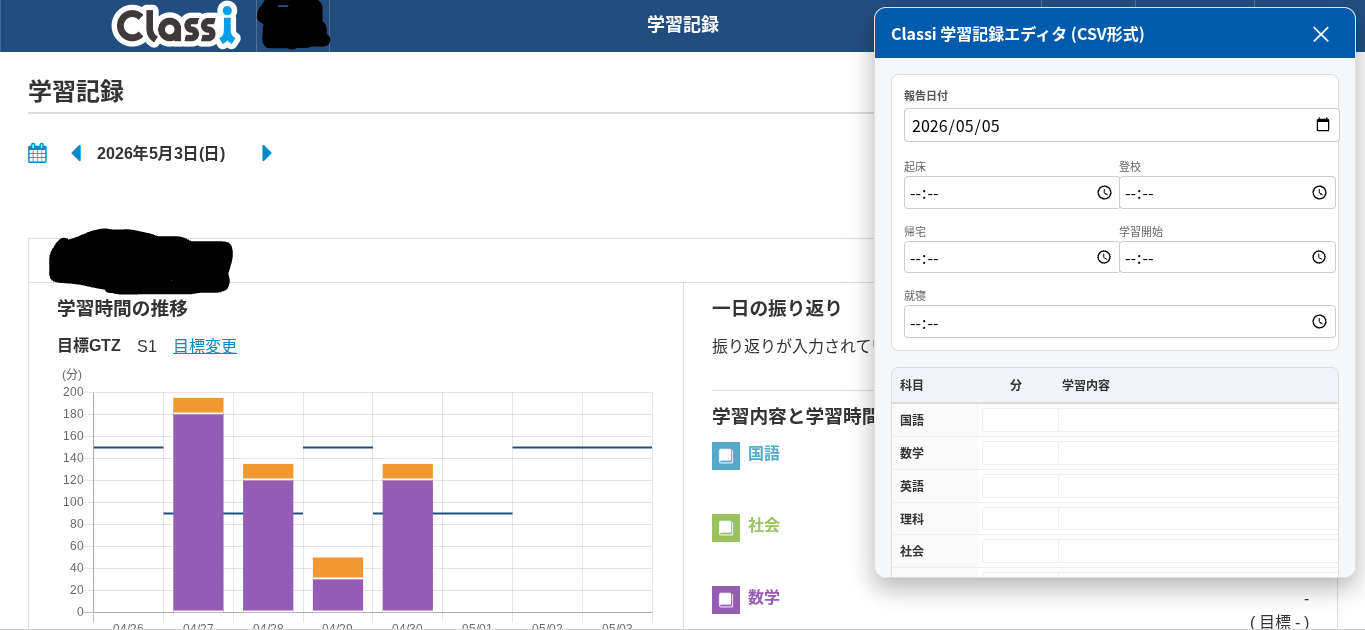
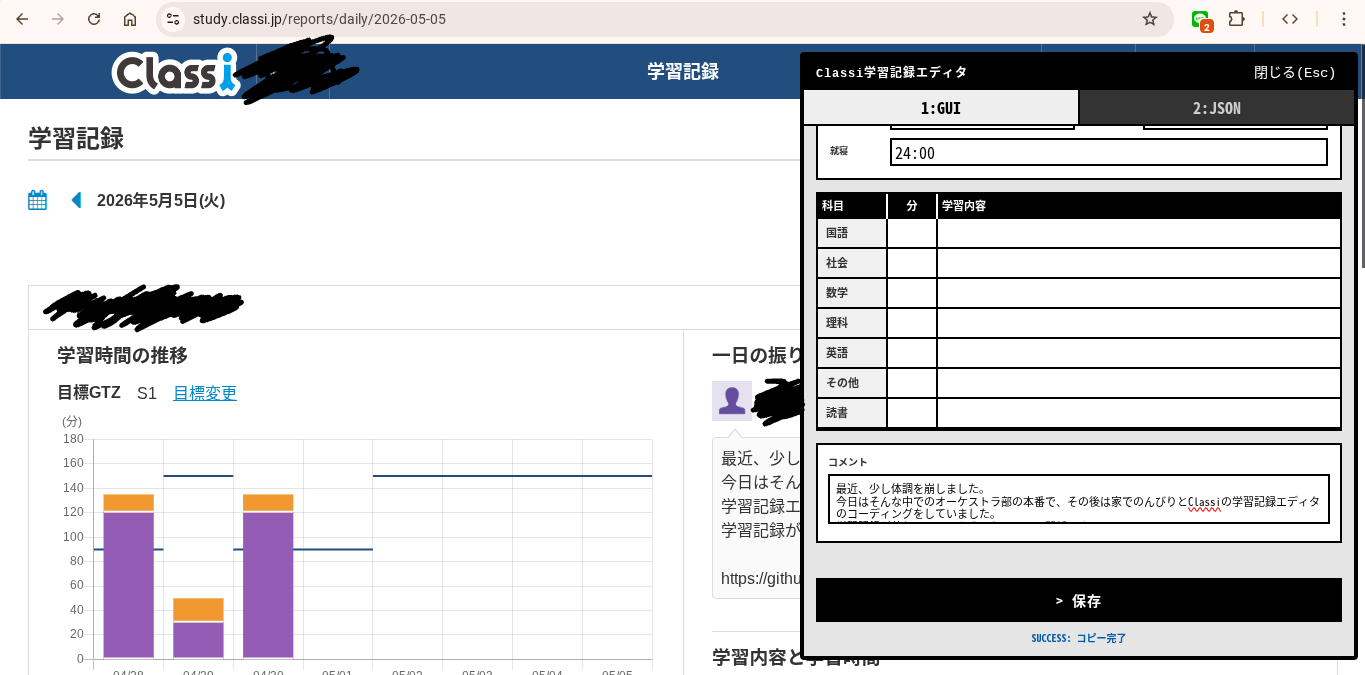
READMEの変更

diff --git a/README.md b/README.md
@@ -1,9 +1,19 @@
 # classi-study-record-editor
-Classiの学習記録を自動入力するエディタです。
+Classiの学習記録を直感的に入力するエディタです。
 # 概要
-Classiの学習記録を使っていると、前日と同じような内容を打ち込んでいるのにいちいち最初から打ち込まないといけないということが発生します。これが少し鬱陶しかったので、表形式で編集できる自作エディタを作りました。Classiと学習記録を強要された自称進学校の効率厨の皆さんにぜひとも使っていただきたいと思います。
+Classiの学習記録を使っていると、前日と同じような内容を打ち込んでいるのにいちいち最初から打ち込まないといけないということが発生します。これが少し鬱陶しかったので、表形式で編集できる自作エディタを作りました。
+
+自称進学校の自称進学校による自称進学校のためのツールです。Classiと学習記録を強要された自称進学校の効率厨の皆さんにぜひとも使っていただきたいと思います。
 # 使い方(JS版)
 ここに掲載されているJSのコードを以下の画像のようにブックマークに追加します![ブックマーク](dev/images/bookmark.png)
-そして、先程のブックマークをclassiの学習記録のページから開くことで、入力した内容が反映されます。個人情報なので一部黒塗りしています。![学習記録からの実行](dev/images/run-in-classi.png)
-# リンク
+そして、先程のブックマークをclassiの学習記録のページから開くことで、入力した内容が反映されます。![学習記録からの実行](dev/images/run-in-classi.png)
 [Classi](https://classi.jp)
+
+# 注意書き
+このツールによるいかなる損害も負いません。動作が不安定のため、データが消滅するおそれがあります。
+
+[Classiの利用規約](https://id.classi.jp/notice)には一応目を通してあります。しかしながら、不正アクセスとみなされる可能性がないことを保証しかねます。
+
+[直感的:主観です。](#classi-study-record-editor)
+
+[画像:個人情報なので一部黒塗りしています。UIが異なる場合があります。](#使い方js版)
